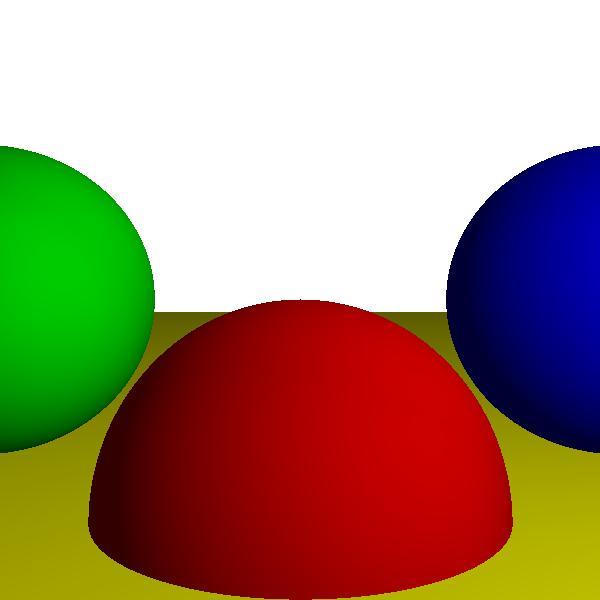
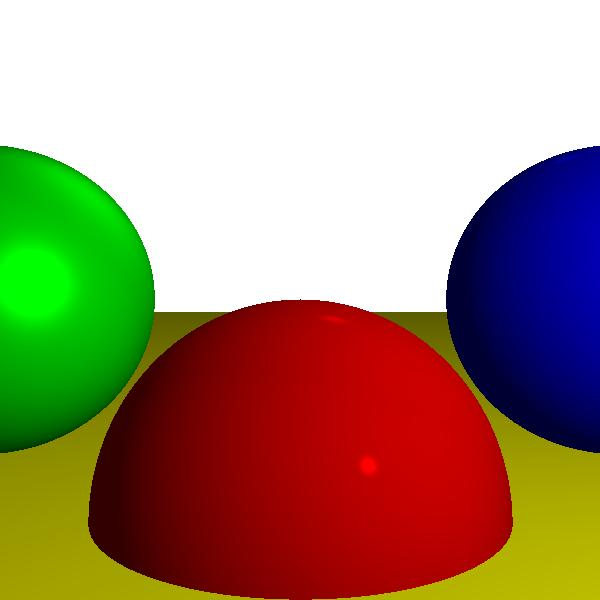
add specular reflection.

diff --git a/src/main/java/RayTracer.java b/src/main/java/RayTracer.java
@@ -45,22 +45,22 @@ public class RayTracer extends JPanel {
 
         Vec center = new Vec(0, -1, 3);
         Vec color = new Vec(255, 0, 0);
-        Sphere sphere = new Sphere(center,1, color);
+        Sphere sphere = new Sphere(center,1, color, 500);
         scene.addShape(sphere);
 
         Vec center2 = new Vec(2, 0, 4);
         Vec color2 = new Vec(0, 0, 255);
-        Sphere sphere2 = new Sphere(center2,1, color2);
+        Sphere sphere2 = new Sphere(center2,1, color2, 500);
         scene.addShape(sphere2);
 
         Vec center3 = new Vec(-2, 0, 4);
         Vec color3 = new Vec(0, 255, 0);
-        Sphere sphere3 = new Sphere(center3,1, color3);
+        Sphere sphere3 = new Sphere(center3,1, color3, 10);
         scene.addShape(sphere3);
 
         Vec center4 = new Vec(0, -5001, 0);
         Vec color4 = new Vec(255, 255, 0);
-        Sphere sphere4 = new Sphere(center4,5000, color4);
+        Sphere sphere4 = new Sphere(center4,5000, color4, 1000);
         scene.addShape(sphere4);
 
         Ambient ambientLight = new Ambient(0.2);
@@ -87,7 +87,7 @@ public class RayTracer extends JPanel {
             for (int y = -(rayTracer.canvasHeight / 2); y < (rayTracer.canvasHeight / 2); y++) {
                 ray = new Ray(rayTracer.camera, rayTracer.canvasToViewport(x, y));
 
-                tempColor = rayTracer.traceRay(ray);
+                tempColor = (rayTracer.traceRay(ray)).colorBind();
                 tempX = (int) tempColor.getX();
                 tempY = (int) tempColor.getY();
                 tempZ = (int) tempColor.getZ();
@@ -128,22 +128,12 @@ public class RayTracer extends JPanel {
                 double intersection1 = rayIntersections.getIntersection1();
                 double intersection2 = rayIntersections.getIntersection2();
 
-//                if (intersection1 >= traceMin && intersection1 <= traceMax && intersection1 < closestIntersection) {
-//                    closestIntersection = intersection1;
-//                    closestShape = shape;
-//                }
-//
-//                if (intersection2 >= traceMin && intersection2 <= traceMax && intersection2 < closestIntersection) {
-//                    closestIntersection = intersection2;
-//                    closestShape = shape;
-//                }
-
-                if (intersection1 < closestIntersection && traceMin < intersection1 && intersection1 < traceMax) {
+                if (intersection1 >= traceMin && intersection1 <= traceMax && intersection1 < closestIntersection) {
                     closestIntersection = intersection1;
                     closestShape = shape;
                 }
 
-                if (intersection2 < closestIntersection && traceMin < intersection2 && intersection2 < traceMax) {
+                if (intersection2 >= traceMin && intersection2 <= traceMax && intersection2 < closestIntersection) {
                     closestIntersection = intersection2;
                     closestShape = shape;
                 }
@@ -155,14 +145,13 @@ public class RayTracer extends JPanel {
         point = origin.add(direction.scale(closestIntersection));
         normal = point.sub(((Sphere) closestShape).getCenter());
         normal = normal.scale(1.0 / normal.length());
-        return closestShape.getColor().scale(computeLighting(point, normal));
-//        return closestShape.getColor();
+        return closestShape.getColor().scale(computeLighting(point, normal, direction.scale(-1), closestShape.getSpecular()));
     }
 
-    public double computeLighting(Vec point, Vec normal) {
+    public double computeLighting(Vec point, Vec normal, Vec view, int specular) {
         double i = 0.0;
-        double nDotL;
-        Vec l;
+        double nDotL, rDotV;
+        Vec l, r;
 
         for (Light light : lights) {
             if (light instanceof Ambient) {
@@ -175,9 +164,20 @@ public class RayTracer extends JPanel {
                     l = ((Directional) light).getDirection();
                 }
 
+                // Diffuse lighting.
                 nDotL = normal.dotProduct(l);
 
                 if (nDotL > 0) i += (light.getIntensity()) * nDotL / (normal.length() * l.length());
+
+                // Specular lighting.
+                if (specular !=  -1) {
+                    r = ((normal.scale(2)).scale(normal.dotProduct(l))).sub(l);
+                    rDotV = r.dotProduct(view);
+
+                    if (rDotV > 0) {
+                        i += light.getIntensity() * Math.pow(rDotV / (r.length() * view.length()), specular);
+                    }
+                }
             }
         }
 

diff --git a/src/main/java/scene/Shapes/Shape.java b/src/main/java/scene/Shapes/Shape.java
@@ -1,5 +1,4 @@
 package main.java.scene.Shapes;
-import java.awt.Color;
 
 import main.java.rays.Ray;
 import main.java.rays.RayIntersections;
@@ -7,10 +6,15 @@ import main.java.utilities.Vec;
 
 public abstract class Shape {
     protected Vec color;
+    protected int specular;
 
     public abstract RayIntersections checkIntersect(Ray ray);
 
     public Vec getColor() {
         return color;
+    }
+
+    public int getSpecular() {
+       return specular;
     }
 }

diff --git a/src/main/java/utilities/Vec.java b/src/main/java/utilities/Vec.java
@@ -27,6 +27,15 @@ public class Vec {
 //        y = y / length;
 //        z = z / length;
 //    }
+    public Vec colorBind() {
+        double a, b, c;
+
+        a = Math.min(x, 255);
+        b = Math.min(y, 255);
+        c = Math.min(z, 255);
+
+        return new Vec(a, b, c);
+    }
 
     public double dotProduct(Vec v) {
         return (x * v.getX()) + (y * v.getY()) + (z * v.getZ());

diff --git a/src/main/java/scene/Shapes/Sphere.java b/src/main/java/scene/Shapes/Sphere.java
@@ -7,10 +7,11 @@ public class Sphere extends Shape {
     private Vec center;
     private double radius;
 
-    public Sphere(Vec center, double radius, Vec color) {
+    public Sphere(Vec center, double radius, Vec color, int specular) {
         this.center = center;
         this.radius = radius;
         this.color = color;
+        this.specular = specular;
     }
 
     @Override
